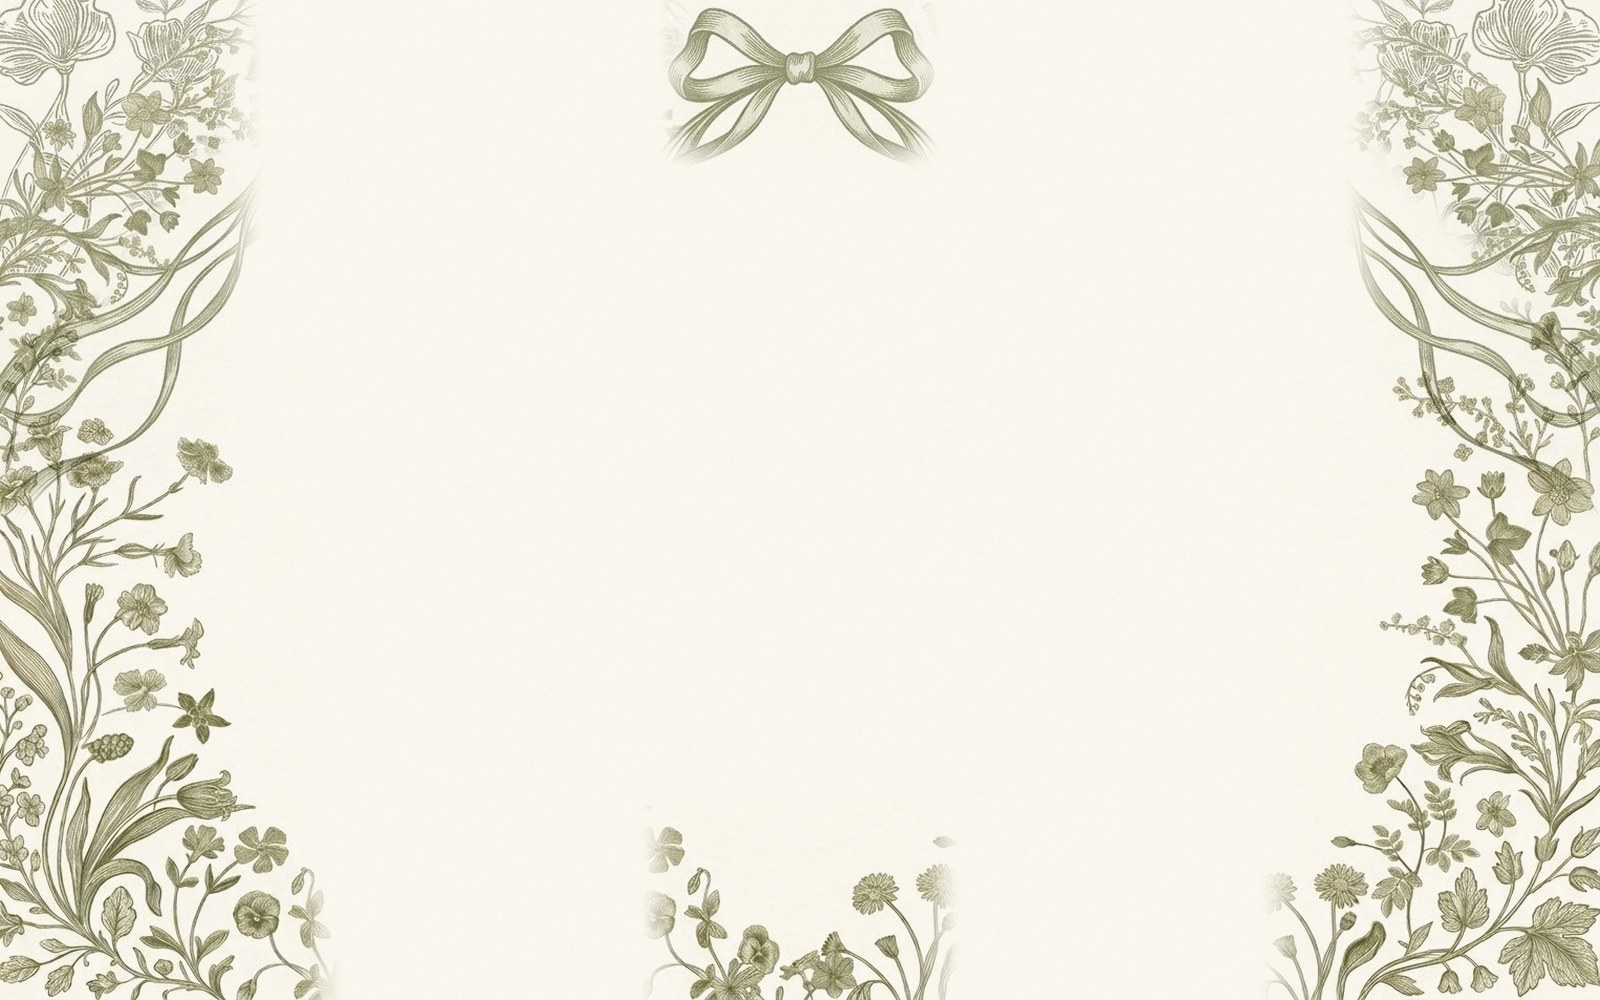
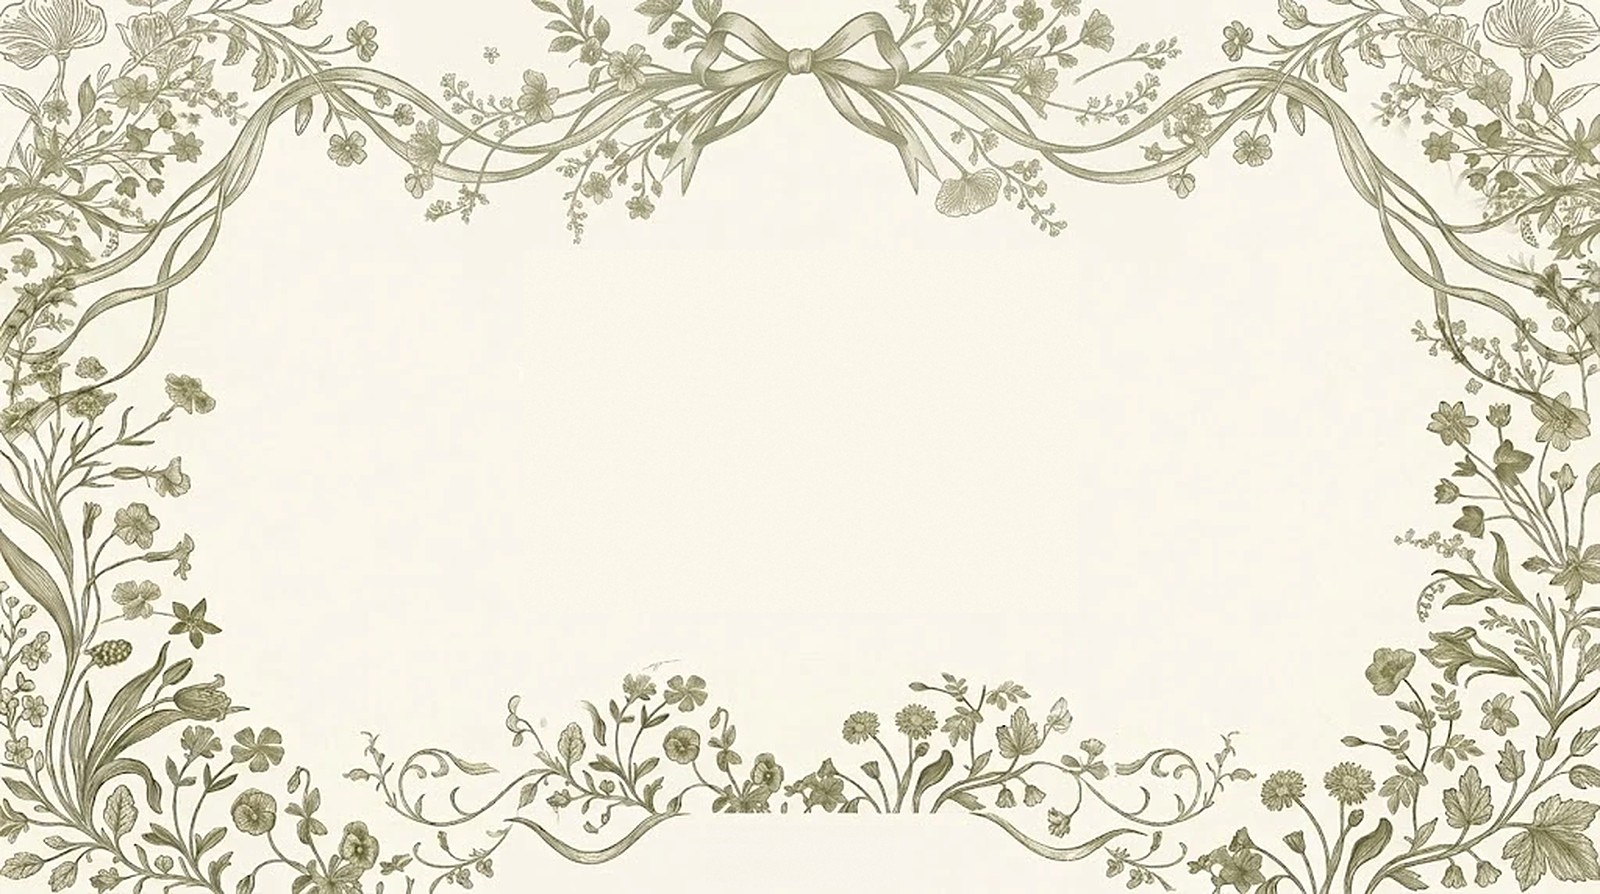
Use the host's wide ribbon-garland art for the invite card on larger screens
Claude-Session: https://claude.ai/code/session_01YF7w5cBKyYgzXo6VHLrySU

Changed region(s): [[0.0, 0.0, 1.0, 1.0]]

diff --git a/index.html b/index.html
@@ -39,28 +39,29 @@
     width: 100%;
     max-width: 1240px;
     margin: 0 auto;
-    aspect-ratio: 1600 / 1000;
+    aspect-ratio: 1600 / 894;
     background: url("assets/hero-ribbon-wide.jpg") center / cover no-repeat;
     container-type: inline-size;
     box-shadow: 0 1px 0 var(--line), 0 26px 50px -34px rgba(60, 64, 40, .55);
     display: flex; flex-direction: column; align-items: center; justify-content: center;
-    padding-top: 2%;
+    padding-bottom: 5%;
     text-align: center;
   }
-  .invite .lead { font-style: italic; font-size: 1.9cqw; color: var(--ink-soft); }
+  .invite .lead { font-style: italic; font-size: 1.45cqw; color: var(--ink-soft); }
   .invite h1 {
     font-family: "Pinyon Script", cursive; font-weight: 400;
-    font-size: 8.4cqw; line-height: 1.1; margin: .4cqw 0 2.2cqw; color: var(--ink);
+    font-size: 6.6cqw; line-height: 1.1; margin: .3cqw 0 1.6cqw; color: var(--ink);
   }
-  .invite .date { font-family: "Cormorant Garamond", serif; font-weight: 500; font-size: 2.3cqw; letter-spacing: .07em; }
+  .invite .date { font-family: "Cormorant Garamond", serif; font-weight: 500; font-size: 1.8cqw; letter-spacing: .07em; }
   .invite .date span.day::after { content: ", "; }
-  .invite .time { font-style: italic; font-size: 1.9cqw; color: var(--ink-soft); margin-top: .3cqw; }
-  .invite .cal { margin-top: 2.4cqw; }
+  .invite .time { font-style: italic; font-size: 1.45cqw; color: var(--ink-soft); margin-top: .2cqw; }
+  .invite .cal { margin-top: 2cqw; }
 
   /* Tall card on phones */
   @media (max-width: 699px) {
     .invite {
       max-width: 480px;
+      padding-bottom: 0;
       aspect-ratio: 768 / 1376;
       background-image: url("assets/hero-ribbon-full.jpg");
       justify-content: flex-start;
